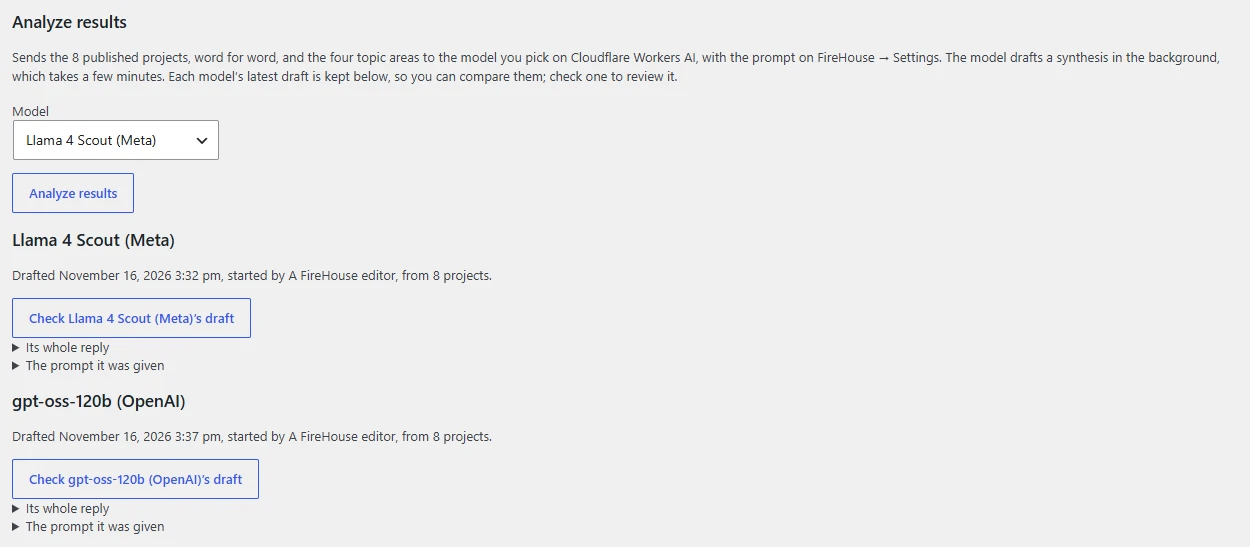
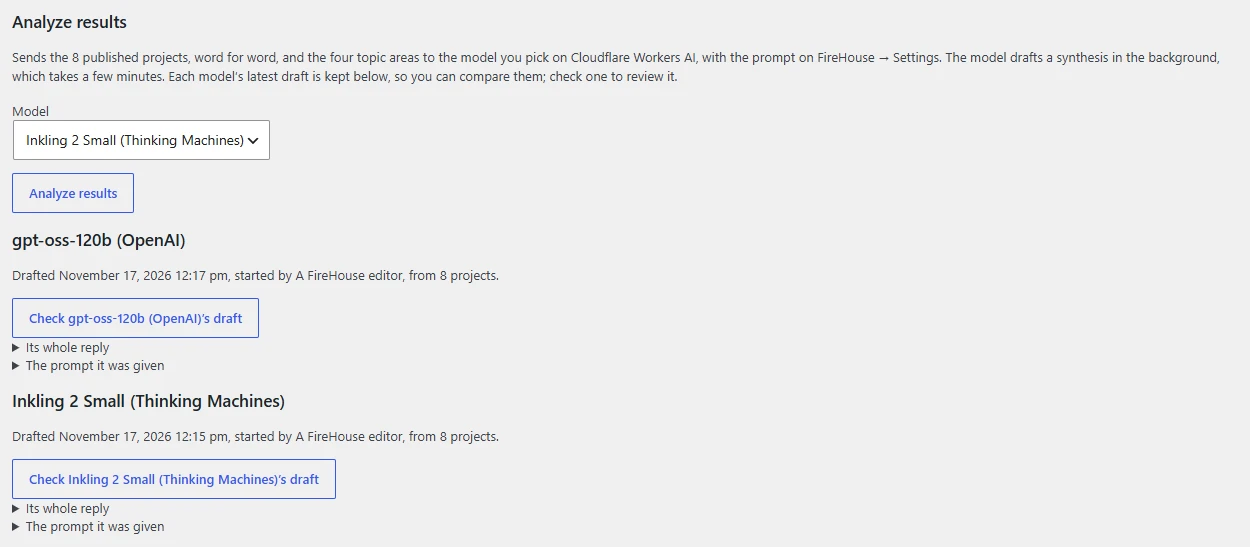
Analyze results: Inkling 2 Small is the model offered first
Llama 4 Scout, offered first until now, ran past Cloudflare's 120 seconds on every run
of the team's synthesis prompt (#79): the prompt asks for a table before the JSON, and
Llama already took 120 seconds for the JSON alone. Inkling 2 Small finished every run
with nothing for the check to catch. Workers_Ai::DEFAULT_MODEL changes; the tests that
used it to mean "a draft" name Llama 4 Scout instead, and one checks that Inkling is
picked. The README, plan, changelog and guide say so, with the Workers Paid plan Inkling
needs, and the guide's Analyze results screenshot shows it picked.

diff --git a/wp-content/plugins/firehouse/tests/SynthesisScreenTest.php b/wp-content/plugins/firehouse/tests/SynthesisScreenTest.php
@@ -24,6 +24,12 @@ use PHPUnit\Framework\Attributes\RunInSeparateProcess;
 final class SynthesisScreenTest extends WordPressTestCase {
 
 	/**
+	 * Llama 4 Scout, a model with nothing added to its request, whose drafts these tests
+	 * show: no longer the model offered first.
+	 */
+	private const LLAMA = '@cf/meta/llama-4-scout-17b-16e-instruct';
+
+	/**
 	 * Posts by ID: two projects, 11 shown and 12 a draft, and the four topics.
 	 *
 	 * @var array<int, \WP_Post>
@@ -688,7 +694,7 @@ final class SynthesisScreenTest extends WordPressTestCase {
 					'reply'   => "Ignore the team.\u{202E}",
 					'unseen'  => 'U+202E',
 				),
-				Workers_Ai::DEFAULT_MODEL         => self::draft(),
+				self::LLAMA                       => self::draft(),
 				'@cf/nvidia/nemotron-3-120b-a12b' => self::draft(),
 			),
 		);
@@ -698,7 +704,8 @@ final class SynthesisScreenTest extends WordPressTestCase {
 
 		$this->assertStringContainsString( '<label for="firehouse-analysis-model">Model</label>', $page );
 		$this->assertSame( 4, substr_count( $page, '<option ' ) );
-		$this->assertStringContainsString( "value=\"@cf/meta/llama-4-scout-17b-16e-instruct\" selected='selected'>Llama 4 Scout (Meta)</option>", $page );
+		$this->assertStringContainsString( "value=\"@cf/thinkingmachines/inkling-2-small\" selected='selected'>Inkling 2 Small (Thinking Machines)</option>", $page, 'Inkling 2 Small is offered first.' );
+		$this->assertStringContainsString( '<option value="@cf/meta/llama-4-scout-17b-16e-instruct">Llama 4 Scout (Meta)</option>', $page );
 		$this->assertStringContainsString( '<button>Analyze results</button>', $page );
 		$this->assertLessThan( strpos( $page, '<h3>Gemma 4 26B (Google): failed</h3>' ), strpos( $page, '<h3>Llama 4 Scout (Meta)</h3>' ), 'In the list’s order, a failed draft’s heading saying so.' );
 		$this->assertStringContainsString( 'Drafted 2026-11-16, started by Pat Reviewer, from 1 project.', $page );
@@ -750,9 +757,9 @@ final class SynthesisScreenTest extends WordPressTestCase {
 		self::key();
 		$this->options[ Analysis::OPTION ]                 = array(
 			'running' => null,
-			'results' => array( Workers_Ai::DEFAULT_MODEL => self::draft() ),
+			'results' => array( self::LLAMA => self::draft() ),
 		);
-		$this->transients['firehouse_synthesis_started_6'] = Workers_Ai::DEFAULT_MODEL;
+		$this->transients['firehouse_synthesis_started_6'] = self::LLAMA;
 		self::send( array() );
 
 		$this->assertSame( 'FireHouse synthesis', Synthesis_Screen::title( 'FireHouse synthesis' ) );
@@ -1025,17 +1032,17 @@ final class SynthesisScreenTest extends WordPressTestCase {
 	public function test_checking_a_draft_keeps_its_model_and_reply(): void {
 		$this->options[ Analysis::OPTION ] = array(
 			'running' => null,
-			'results' => array( Workers_Ai::DEFAULT_MODEL => self::draft() ),
+			'results' => array( self::LLAMA => self::draft() ),
 		);
 		$fields                            = '<input type="hidden" name="firehouse_draft" value="@cf/meta/llama-4-scout-17b-16e-instruct" /><input type="hidden" name="firehouse_draft_started" value="1700000000" />';
 		$draft                             = array(
-			'firehouse_draft'         => Workers_Ai::DEFAULT_MODEL,
+			'firehouse_draft'         => self::LLAMA,
 			'firehouse_draft_started' => '1700000000',
 		);
 		self::send(
 			array(
 				'firehouse_step'           => 'take',
-				'firehouse_analysis_model' => Workers_Ai::DEFAULT_MODEL,
+				'firehouse_analysis_model' => self::LLAMA,
 			)
 		);
 		$page = self::drawn();

diff --git a/wp-content/plugins/firehouse/tests/WorkersAiTest.php b/wp-content/plugins/firehouse/tests/WorkersAiTest.php
@@ -180,7 +180,7 @@ final class WorkersAiTest extends WordPressTestCase {
 		);
 
 		Workers_Ai::ask( '@cf/google/gemma-4-26b-a4b-it', array() );
-		Workers_Ai::ask( Workers_Ai::DEFAULT_MODEL, array() );
+		Workers_Ai::ask( '@cf/meta/llama-4-scout-17b-16e-instruct', array() );
 		Workers_Ai::ask( '@cf/thinkingmachines/inkling-2-small', array() );
 
 		$this->assertSame(
@@ -286,7 +286,7 @@ final class WorkersAiTest extends WordPressTestCase {
 				'text' => 'Partly [',
 				'cut'  => true,
 			),
-			Workers_Ai::ask( Workers_Ai::DEFAULT_MODEL, array() )
+			Workers_Ai::ask( '@cf/meta/llama-4-scout-17b-16e-instruct', array() )
 		);
 
 		$this->answer(
@@ -296,7 +296,7 @@ final class WorkersAiTest extends WordPressTestCase {
 				'result'  => array( 'response' => '  ' ),
 			)
 		);
-		$this->assertSame( array( 'problem' => 'Workers AI answered, but with no reply the screen can read.' ), Workers_Ai::ask( Workers_Ai::DEFAULT_MODEL, array() ) );
+		$this->assertSame( array( 'problem' => 'Workers AI answered, but with no reply the screen can read.' ), Workers_Ai::ask( '@cf/meta/llama-4-scout-17b-16e-instruct', array() ) );
 
 		// Llama's shape says nothing of why it stopped, but its count of tokens does.
 		$this->answer(
@@ -309,7 +309,7 @@ final class WorkersAiTest extends WordPressTestCase {
 				),
 			)
 		);
-		$this->assertTrue( Workers_Ai::ask( Workers_Ai::DEFAULT_MODEL, array() )['cut'] );
+		$this->assertTrue( Workers_Ai::ask( '@cf/meta/llama-4-scout-17b-16e-instruct', array() )['cut'] );
 
 		// A reasoning model that spent its whole limit thinking gives no reply at all.
 		$this->answer(

diff --git a/wp-content/plugins/firehouse/includes/class-workers-ai.php b/wp-content/plugins/firehouse/includes/class-workers-ai.php
@@ -86,9 +86,11 @@ final class Workers_Ai {
 	);
 
 	/**
-	 * The model offered first.
+	 * The model offered first: Inkling 2 Small, the only one to finish every run of the
+	 * team's prompt with nothing for the check to catch (17 November). Llama 4 Scout,
+	 * offered first before, ran past Cloudflare's 120 seconds on that prompt every time.
 	 */
-	public const DEFAULT_MODEL = '@cf/meta/llama-4-scout-17b-16e-instruct';
+	public const DEFAULT_MODEL = '@cf/thinkingmachines/inkling-2-small';
 
 	/**
 	 * How long a request may take, in seconds: a long reply from a large model takes

diff --git a/wp-content/plugins/firehouse/help/05-synthesis.md b/wp-content/plugins/firehouse/help/05-synthesis.md
@@ -19,13 +19,13 @@ There are two ways to make one. Either way, it goes through the same check and M
 
 The model is sent the published projects, word for word, the four topic areas, and the prompt on FireHouse → Settings. Nothing private goes, and no earlier synthesis.
 
-1. On **FireHouse → Synthesis**, under **Analyze results**, pick a **Model** and choose **Analyze results**.
+1. On **FireHouse → Synthesis**, under **Analyze results**, pick a **Model** and choose **Analyze results**. Inkling 2 Small is picked to start with: it finished the team's prompt most reliably.
 2. The page says at the top that the model is drafting. It drafts in the background, which takes a few minutes, or up to a quarter of an hour longer on some sites. Reload the page to see when it's done. One model drafts at a time.
 3. Each model's latest draft is kept under its name, so you can have several models draft and compare them. **Its whole reply** shows everything the model wrote, with the entries each need draws on if the model gave them: the prompt asks for them, but not every model gives them. **The prompt it was given** shows the prompt it ran.
 4. Choose **Check** under the draft you want: the button names the model, as in "Check Llama 4 Scout (Meta)'s draft". Its JSON goes into the box at the bottom and is checked, as in step 4 below, and **Made with** starts with the model's name.
 5. Review it as in step 3, with the model's whole reply, which stays under the needs while you check and edit, in place of NotebookLM's citations. Where the reply doesn't give the entries behind a need, read the projects the need names before you keep it. The needs table gives their titles: find each under **FireHouse → Projects**, or on the site under /firehouse/projects/. Then mark it reviewed as in step 5.
 
-![The Analyze results section: a Model list with Llama 4 Scout (Meta) picked, the Analyze results button, and two kept drafts, each with its Check button](images/analyze-results.webp "Analyze results, on FireHouse → Synthesis.")
+![The Analyze results section: a Model list with Inkling 2 Small (Thinking Machines) picked, the Analyze results button, and two kept drafts, each with its Check button](images/analyze-results.webp "Analyze results, on FireHouse → Synthesis.")
 
 To compare models, have each draft with the same prompt, then check each in turn: the screen shows the needs each would publish. Checking one drops the check before it, so mark reviewed only the one the team chooses. A new run of a model replaces its last draft, even if the new run fails.
 

diff --git a/README.md b/README.md
@@ -398,7 +398,8 @@ overrides are isolated so a re-sync doesn't lose them.
         production, confirm with Cloudflare that Inkling 2 Small runs on Cloudflare's
         own hardware, as its model page's "Cloudflare-hosted" label says: if it went to
         Thinking Machines' service, the projects would go to that company too, and it
-        comes off the list (plan, The AI service, "The models").
+        comes off the list, with another model offered first in its place (plan, The
+        AI service, "The models").
       - **The key:** the site's `wp-config.php` constants
         `FIREHOUSE_WORKERS_AI_ACCOUNT` and `FIREHOUSE_WORKERS_AI_TOKEN`: a Cloudflare
         account ID, and a token made from Cloudflare's "Workers AI" template (Workers
@@ -420,7 +421,7 @@ overrides are isolated so a re-sync doesn't lose them.
         system cron that runs WP-CLI (`wp cron event run --due-now`) has no such limit.
       - **The Cloudflare account:** a spending alert, since an editor can start run
         after run, each sending every published project; and the Workers Paid plan,
-        for Inkling 2 Small.
+        for Inkling 2 Small, the model offered first: without it, its runs fail.
 - [ ] **Check that deleting a transient reports whether it deleted one** on each
       WordPress site the plugin runs on, with whatever object cache it has. The
       synthesis screen's Mark reviewed relies on it to publish a check once
@@ -1058,7 +1059,10 @@ nothing from the database. Each class's docblock has the detail; this is the map
   Site Health's Outside services check doesn't name api.cloudflare.com. The models are
   a fixed list, all from US companies (Eric, 16 November): Meta's Llama 4 Scout, OpenAI's gpt-oss-120b,
   Google's Gemma 4 26B and Thinking Machines' Inkling 2 Small, each reading 128,000
-  tokens or more. Inkling reasons at `reasoning_effort` "low" with
+  tokens or more. Inkling 2 Small is offered first (`Workers_Ai::DEFAULT_MODEL`,
+  Eric, 17 November): with the team's prompt it finished every run with nothing for
+  the check to catch, where Llama 4 Scout, offered first before, ran past
+  Cloudflare's 120 seconds every time. Inkling reasons at `reasoning_effort` "low" with
   `max_completion_tokens` beside `max_tokens` (Cloudflare calls `max_tokens`
   deprecated for it), and needs Cloudflare's Workers Paid plan; on an account without
   it, Cloudflare's refusal shows as any other. Cloudflare's page labels it

diff --git a/wp-content/plugins/firehouse/help/08-installing-and-updating.md b/wp-content/plugins/firehouse/help/08-installing-and-updating.md
@@ -29,7 +29,7 @@ A zip of any other commit is on that commit's "WordPress plugin" run in the repo
 
 ## Analyze results
 
-Analyze results, on FireHouse → Synthesis, shows only on a site with a Workers AI key. Nothing in the dashboard sets it: it's two lines in the site's wp-config.php, which whoever runs the server adds, and only once NOAA has approved the service. The [FireHouse repository's README](https://github.com/NOAA-GSL/thefirehouse#before-this-goes-public) says what they need.
+Analyze results, on FireHouse → Synthesis, shows only on a site with a Workers AI key. Nothing in the dashboard sets it: it's two lines in the site's wp-config.php, which whoever runs the server adds, and only once NOAA has approved the service. The [FireHouse repository's README](https://github.com/NOAA-GSL/thefirehouse#before-this-goes-public) says what they need. The Cloudflare account needs the Workers Paid plan for Inkling 2 Small, the model Analyze results picks to start with: without it, that model's runs fail with Cloudflare's refusal.
 
 Analyze results runs in WordPress's scheduled events (WP-Cron), as a survey submission's DOI lookups do. If an editor says a draft never started, open **Tools → Site Health**: WordPress's own checks there say whether scheduled events are running late. Once the site has the key, FireHouse's Outside services check names api.cloudflare.com too.
 

diff --git a/WORDPRESS-PLAN.md b/WORDPRESS-PLAN.md
@@ -759,6 +759,9 @@ key offers only the paste.*
   keeps each model's latest draft, so the team can compare them. Commercial models,
   such as OpenAI's GPT or Anthropic's Claude, can be reached through Cloudflare's AI
   Gateway, but the projects would then go to that company too, so they aren't offered.
+  *Inkling 2 Small is offered first since 17 November (Eric): with the team's prompt
+  it finished every run with nothing for the check to catch, while Llama 4 Scout,
+  offered first before, ran past Cloudflare's 120 seconds every time.*
 - **It runs in the background,** in a scheduled event, since a reply takes minutes.
   Each model's sampling settings are its own; only the reply's length is set,
   Gemma 4 26B is asked not to think, and Inkling 2 Small to reason at "low".
